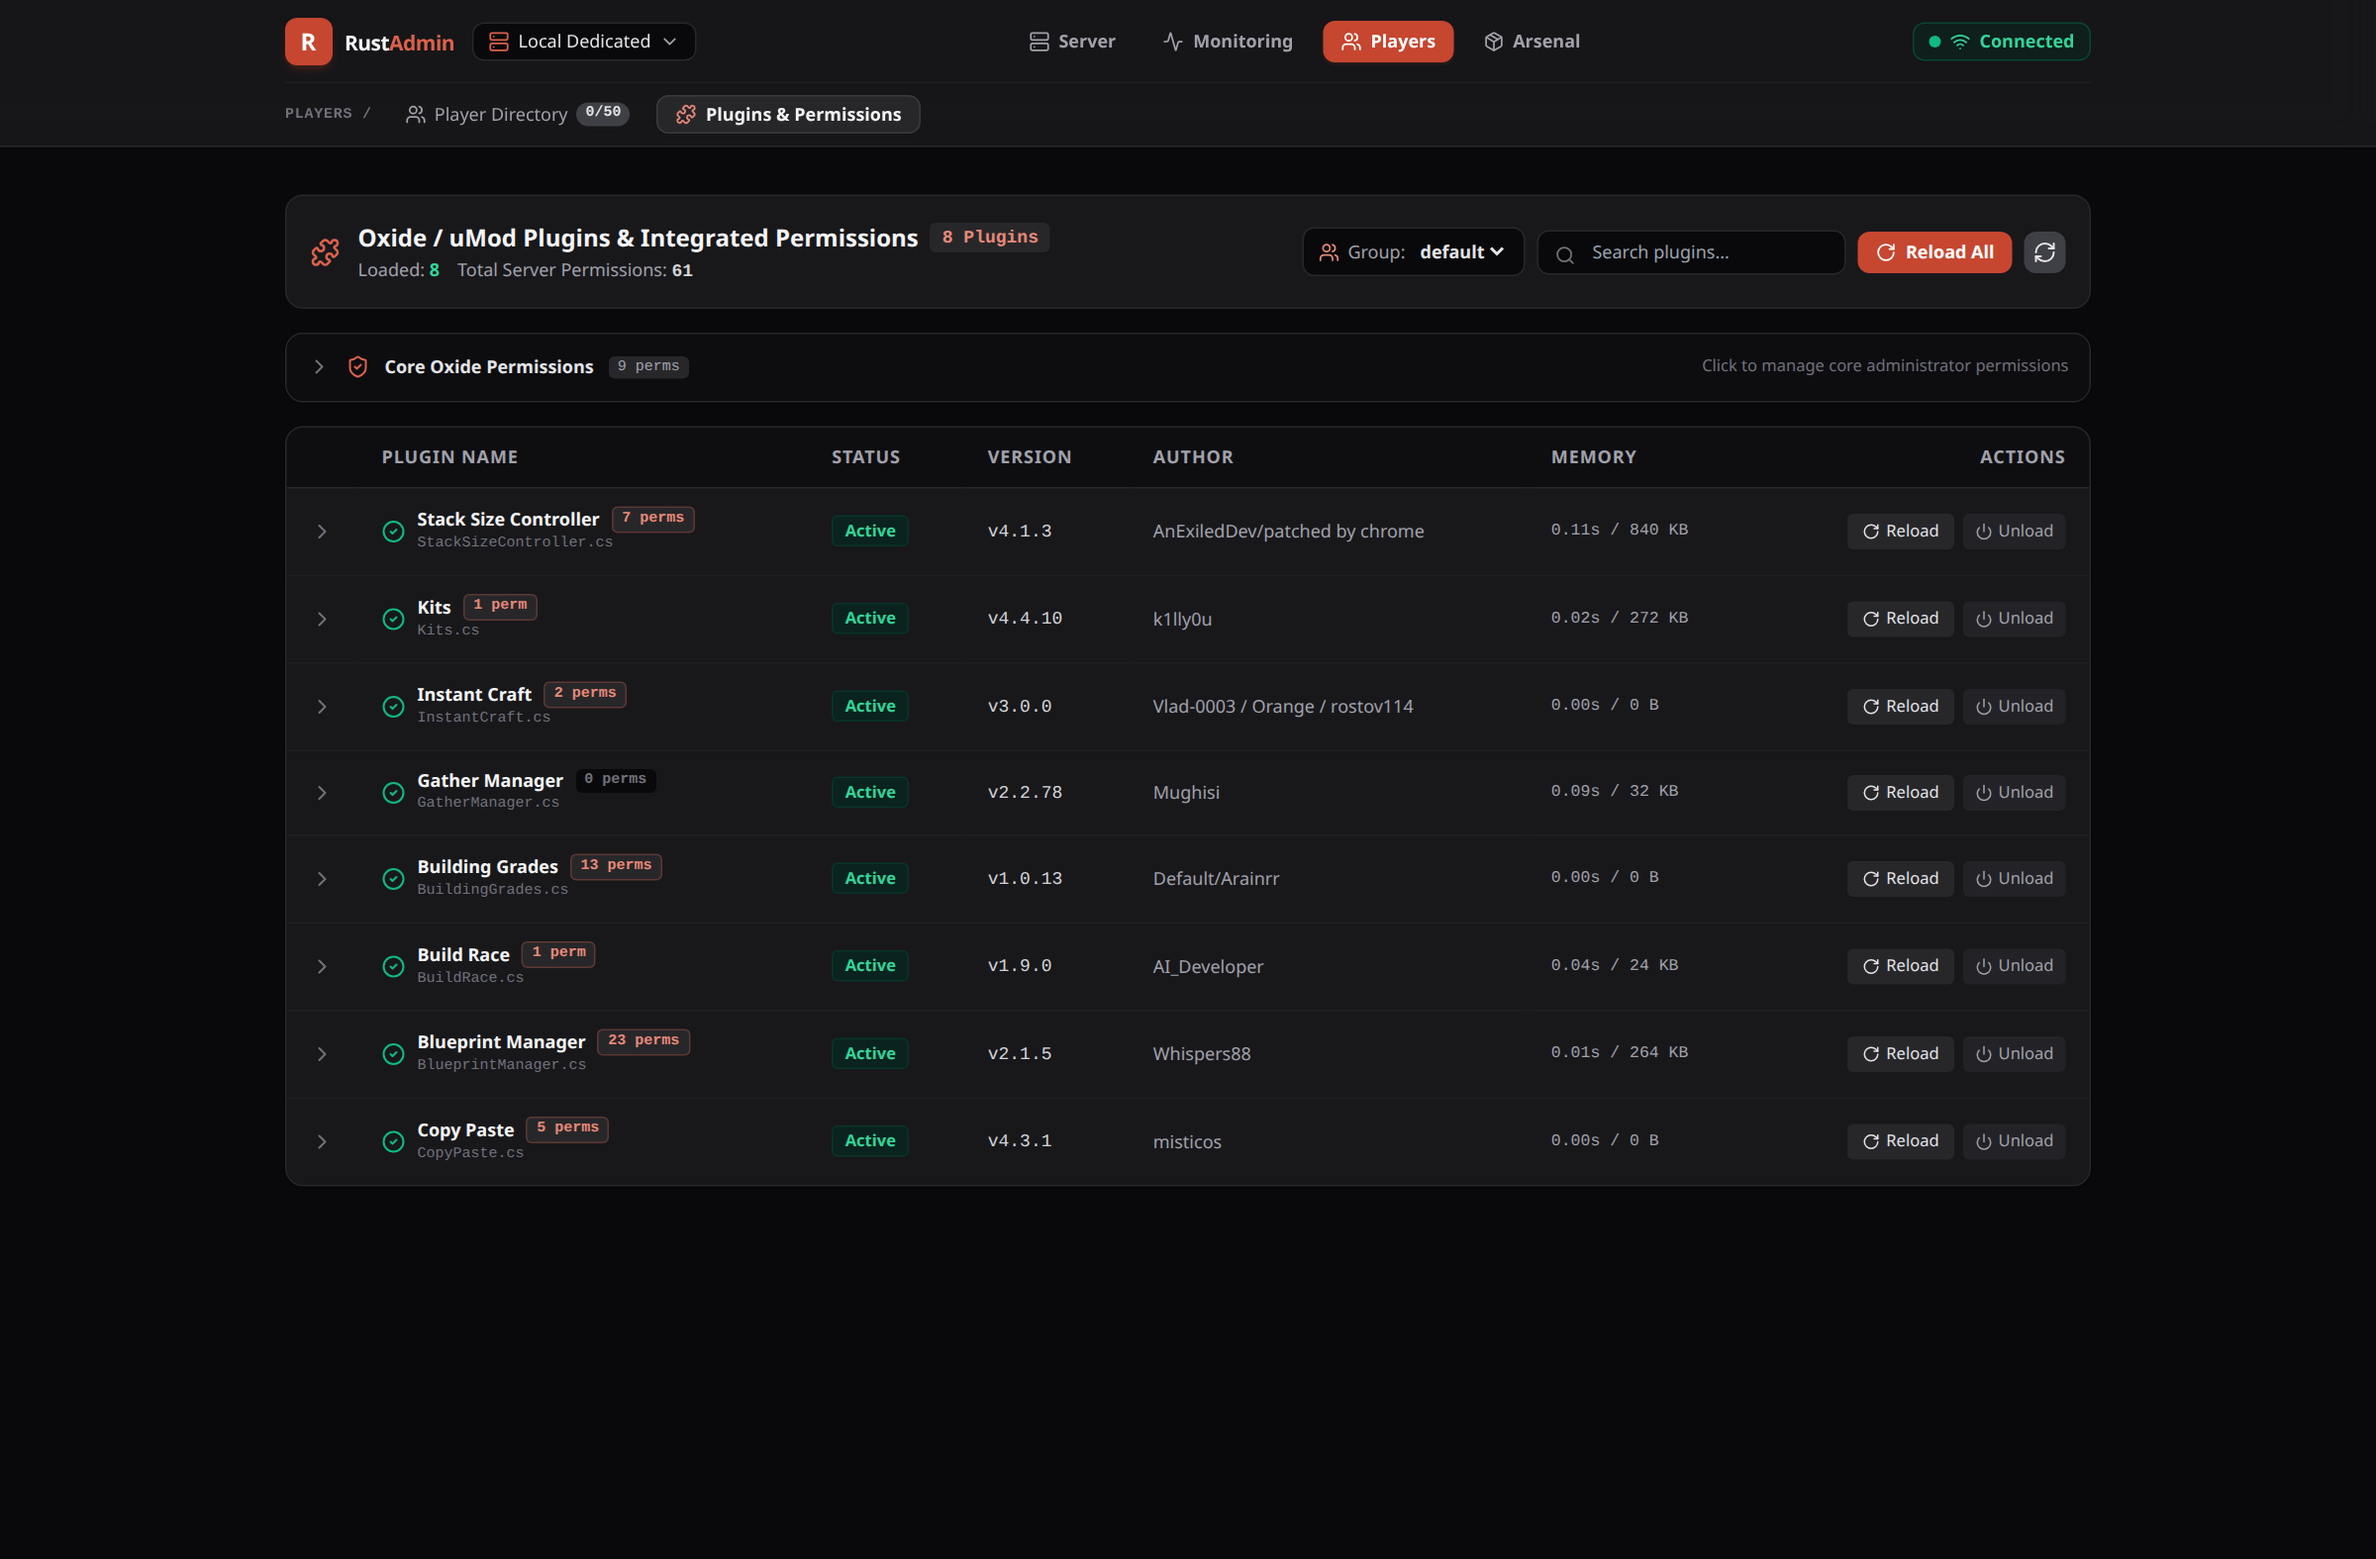
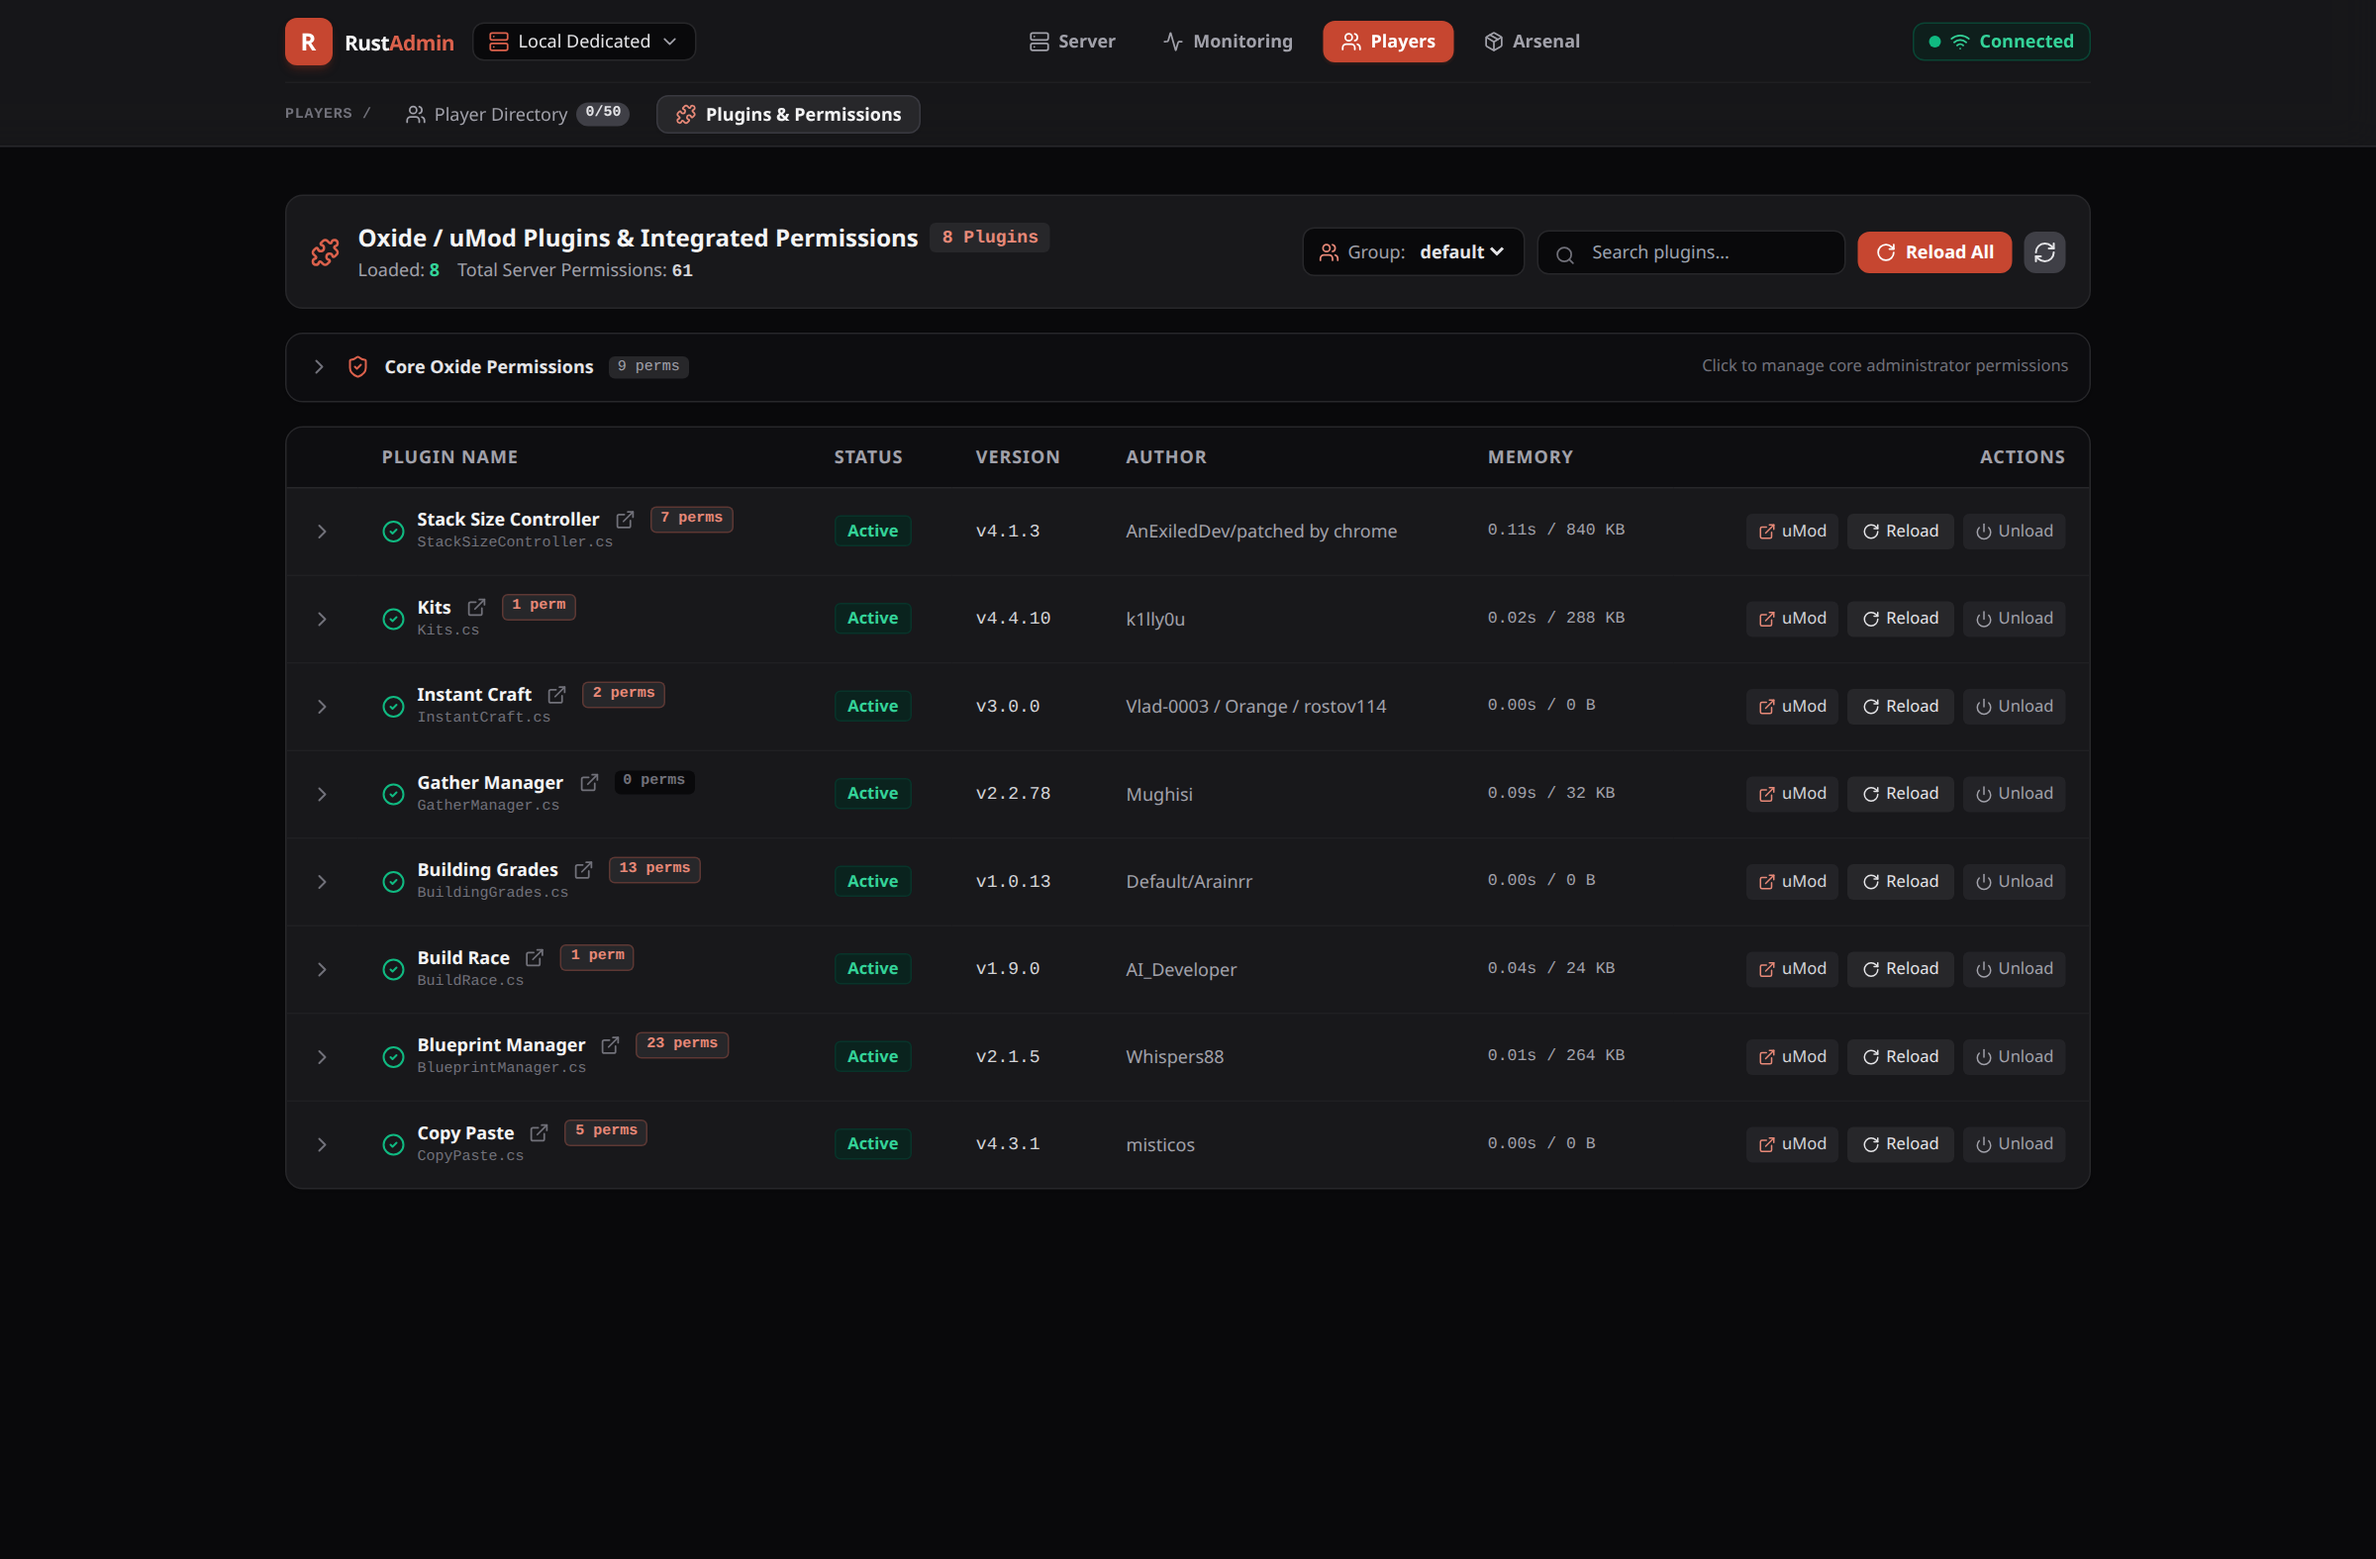
feat(plugins): add uMod documentation links with target _blank and refresh visual screenshots

diff --git a/src/components/PluginsTab.tsx b/src/components/PluginsTab.tsx
@@ -17,7 +17,8 @@ import {
   Check, 
   X, 
   ShieldAlert,
-  Sparkles
+  Sparkles,
+  ExternalLink
 } from 'lucide-react';
 import { rconService } from '../services/rconService';
 import { OxidePlugin } from '../types/rcon';
@@ -467,6 +468,15 @@ export const PluginsTab: React.FC = () => {
                           <div>
                             <div className="flex items-center space-x-2">
                               <span>{plugin.name}</span>
+                              <a
+                                href={`https://umod.org/plugins/${plugin.stem.toLowerCase()}`}
+                                target="_blank"
+                                rel="noopener noreferrer"
+                                className="text-zinc-500 hover:text-rust-400 p-0.5 rounded hover:bg-zinc-800 transition-colors inline-flex items-center"
+                                title={`Open ${plugin.name} documentation on umod.org`}
+                              >
+                                <ExternalLink className="w-3.5 h-3.5" />
+                              </a>
                               <button
                                 onClick={() => toggleExpand(plugin.stem)}
                                 className={`text-[10px] font-mono px-1.5 py-0.2 rounded transition-colors ${
@@ -515,6 +525,18 @@ export const PluginsTab: React.FC = () => {
                         {/* Actions */}
                         <td className="py-3 px-4 text-right">
                           <div className="flex items-center justify-end space-x-1.5">
+                            {/* uMod External Page Link */}
+                            <a
+                              href={`https://umod.org/plugins/${plugin.stem.toLowerCase()}`}
+                              target="_blank"
+                              rel="noopener noreferrer"
+                              className="flex items-center space-x-1 px-2 py-1 bg-zinc-800/80 hover:bg-zinc-700 text-zinc-300 hover:text-white rounded text-[11px] transition-colors"
+                              title={`View ${plugin.name} documentation on umod.org`}
+                            >
+                              <ExternalLink className="w-3 h-3 text-rust-400" />
+                              <span>uMod</span>
+                            </a>
+
                             {isLoaded && (
                               <>
                                 <button
